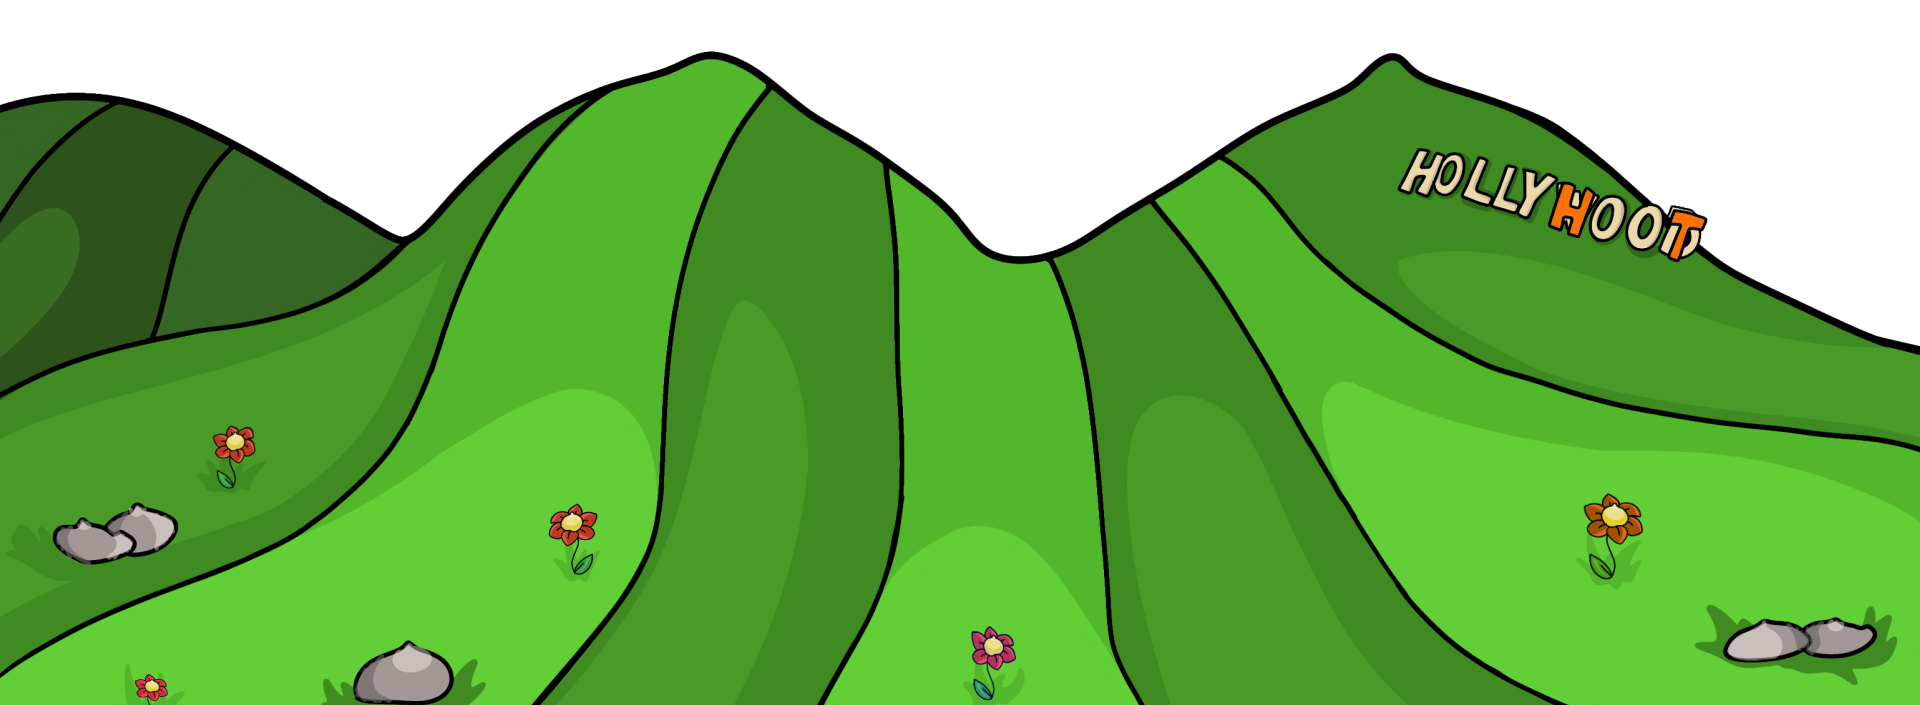
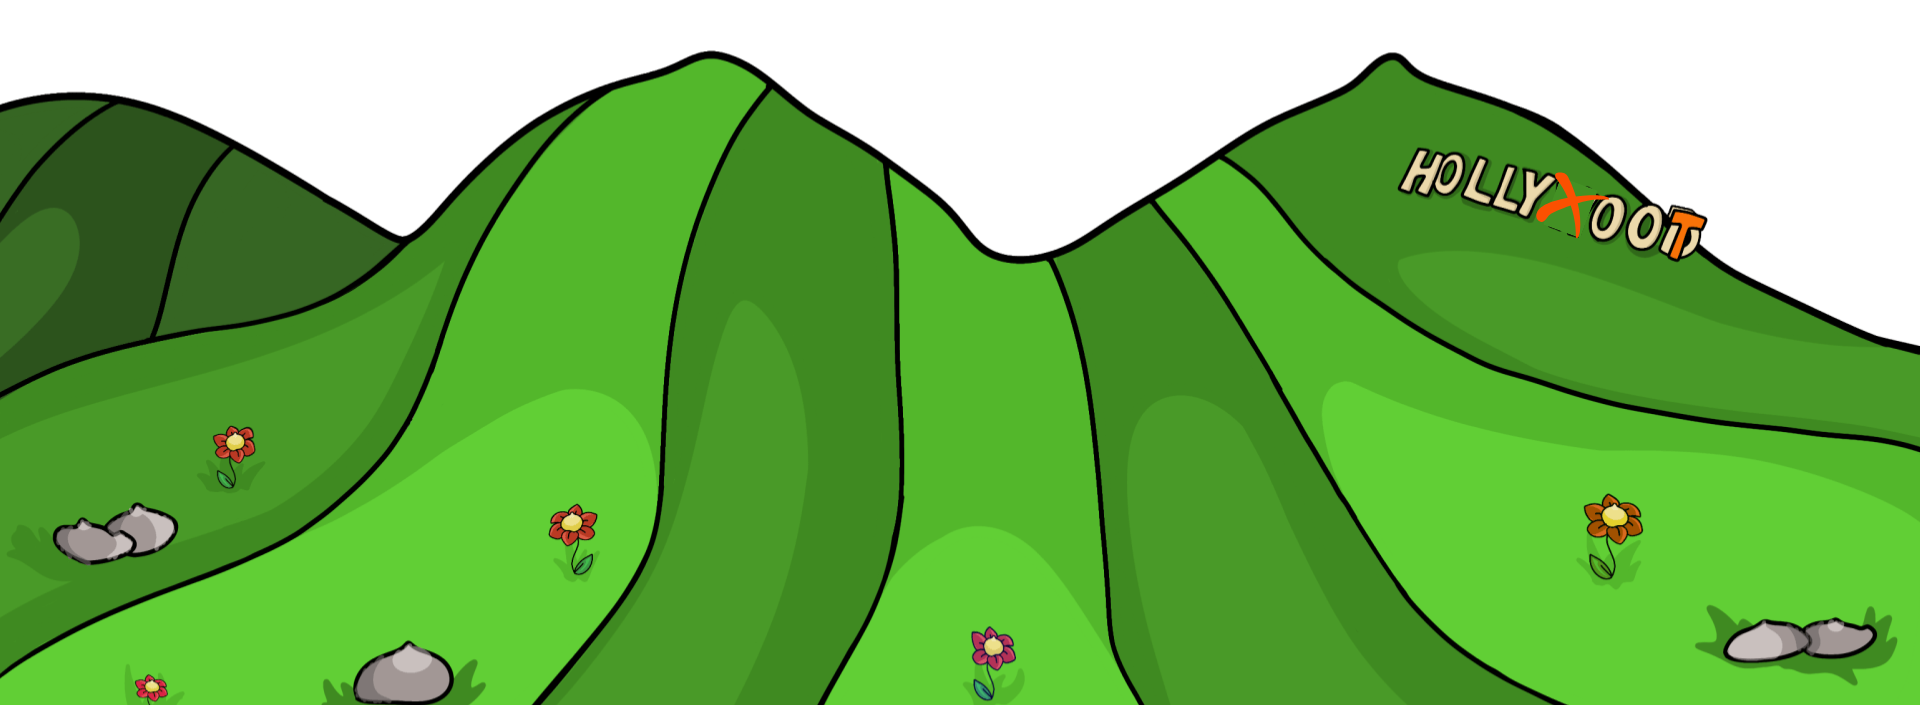
fix

diff --git a/index.html b/index.html
@@ -2,7 +2,7 @@
 <html lang="en">
 
 <head>
-	<title>HOOT</title>
+	<title>XOOT</title>
 	<meta charset="UTF-8">
 	<meta name="format-detection" content="telephone=no">
 	<style>
@@ -24,9 +24,9 @@
 	<meta name="viewport" content="width=device-width, initial-scale=1.0">
 	<meta name="twitter:card" content="summary">
 
-	<meta name="twitter:title" content="Join the $HOOT club">
+	<meta name="twitter:title" content="Join the $XOOT club">
 	<meta name="twitter:description"
-		content="We’ve had cats and dogs it’s time for owls to shine. generally they move in silence but Hoot is about to make noise. He’s getting his energy from green candles and hooting at his crew to join, are you in?">
+		content="We’ve had cats and dogs it’s time for owls to shine. generally they move in silence but XOOT is about to make noise. He’s getting his energy from green candles and hooting at his crew to join, are you in?">
 	<meta name="twitter:image" content="https://pbs.twimg.com/profile_images/1831834463149408256/uzGyUpNk_400x400.jpg">
 
 	<meta name="robots" content="max-image-preview:large">
@@ -34,11 +34,11 @@
 	<meta property="og:locale" content="en_US">
 	<meta property="og:image" content="images/uzGyUpNk_400x400.jpg">
 	<meta property="og:type" content="site">
-	<meta property="og:site_name" content="HOOT">
-	<meta property="og:url" content="http://hootcute.com">
-	<meta property="og:title" content="Join the $HOOT club">
+	<meta property="og:site_name" content="XOOT">
+
+	<meta property="og:title" content="Join the $XOOT club">
 	<meta name="description"
-		content="We’ve had cats and dogs it’s time for owls to shine. generally they move in silence but Hoot is about to make noise. He’s getting his energy from green candles and hooting at his crew to join, are you in?">
+		content="We’ve had cats and dogs it’s time for owls to shine. generally they move in silence but XOOT is about to make noise. He’s getting his energy from green candles and hooting at his crew to join, are you in?">
 </head>
 
 <body>
@@ -46,7 +46,8 @@
 		<div class="menu-open-bg"></div>
 		<header class="header">
 			<div class="header__container">
-				<a href="../" class="header__logo"><img src="images/logo.png" alt="Logo"></a>
+				<a href="../" class="header__logo"><img src="images/logo.png" style="width: 80px;border-radius: 50%;"
+						alt="Logo"></a>
 				<div class="header__menu menu">
 					<button type="button" class="menu__icon icon-menu"><span></span></button>
 					<nav class="menu__body">
@@ -64,10 +65,9 @@
 					</nav>
 				</div>
 				<div class="header__actions" data-da=".menu__body, 767.98">
-					<a href="https://movepump.com/token/0xf3cace1056d48a5819869e9b7052d8100ff21d2ec83c42317a01c25199a4326d::hoot::HOOT"
-						target="_blank" class="header__button">BUy NOW</a>
+					<a href="https://firstledger.net/tokens" target="_blank" class="header__button">BUy NOW</a>
 					<div class="header__social">
-						<a href="https://t.me/HootSui_Portal" target="_blank " class="header__social-item">
+						<a href="https://t.me/XOOPXRPL_Portal" target="_blank " class="header__social-item">
 							<svg xmlns="http://www.w3.org/2000/svg" width="25" height="21" viewBox="0 0 25 21"
 								fill="none">
 								<path fill-rule="evenodd" clip-rule="evenodd"
@@ -75,7 +75,7 @@
 									fill="white" />
 							</svg>
 						</a>
-						<a href="https://x.com/HOOT_Sui" target="_blank " class="header__social-item">
+						<a href="https://x.com/XOOP_XRPL" target="_blank " class="header__social-item">
 							<svg xmlns="http://www.w3.org/2000/svg" width="25" height="23" viewBox="0 0 25 23"
 								fill="none">
 								<path
@@ -107,13 +107,12 @@
 						<div class="hero__bottom-body">
 							<div class="hero__bottom-text">
 								<span>JOIN THE</span>
-								<span>$HOOT CLUB </span>
+								<span>$XOOT CLUB </span>
 							</div>
 							<div class="hero__bottom-actions">
-								<a href="https://movepump.com/token/0xf3cace1056d48a5819869e9b7052d8100ff21d2ec83c42317a01c25199a4326d::hoot::HOOT"
-									class="hero__bottom-button">BUy NOW</a>
+								<a href="https://firstledger.net/tokens" class="hero__bottom-button">BUy NOW</a>
 								<div class="hero__bottom-social">
-									<a href="https://t.me/HootSui_Portal" target="_blank"
+									<a href="https://t.me/XOOPXRPL_Portal" target="_blank"
 										class="hero__bottom-social-item">
 										<svg xmlns="http://www.w3.org/2000/svg" width="38" height="32"
 											viewBox="0 0 38 32" fill="none">
@@ -122,7 +121,7 @@
 												fill="white" />
 										</svg>
 									</a>
-									<a href="https://x.com/HOOT_Sui" target="_blank" class="hero__bottom-social-item">
+									<a href="https://x.com/XOOP_XRPL" target="_blank" class="hero__bottom-social-item">
 										<svg xmlns="http://www.w3.org/2000/svg" width="36" height="32"
 											viewBox="0 0 36 32" fill="none">
 											<path
@@ -145,16 +144,16 @@
 						</div>
 						<div class="about__content">
 							<h2 class="about__title" data-watch-threshold="0.9" data-watch-once data-watch>
-								<img src="images/AboOutTitle.png" alt="ABOUT HOOT">
+								<img src="images/AboOutTitle.png" alt="ABOUT XOOT">
 							</h2>
 							<div class="about__text" data-watch-threshold="0.75" data-watch-once data-watch>
 								we’ve had cats and dogs it’s time for owls to shine. generally
-								they move in silence but Hoot is about to make noise. He’s
+								they move in silence but XOOT is about to make noise. He’s
 								getting his energy from green candles and hooting at his crew
 								to join, are you in?
 							</div>
 							<a href="#" target="_blank" class="about__button">
-								<span><span>Hoot</span> meme assets</span>
+								<span><span>XOOT</span> meme assets</span>
 								<svg xmlns="http://www.w3.org/2000/svg" width="24" height="40" viewBox="0 0 24 40"
 									fill="none">
 									<path
@@ -181,12 +180,9 @@
 										<span>Create a Wallet</span>
 									</div>
 									<div class="how__item-text">
-										Download Sui Wallet or your wallet of choice from the
-										app store or google play store for free. Desktop users,
-										download the google chrome extension by going to
-										<a target="_blank"
-											href="https://chromewebstore.google.com/detail/sui-wallet/opcgpfmipidbgpenhmajoajpbobppdil">Sui
-											Wallet</a>
+										Go to
+										<a target="_blank" href="https://firstledger.net/">First Ledger
+										</a> and create wallet
 									</div>
 								</div>
 							</div>
@@ -196,11 +192,10 @@
 								</div>
 								<div class="how__item-body">
 									<div class="how__item-title">
-										<span>Get some SUI</span>
+										<span>Get some XRP</span>
 									</div>
 									<div class="how__item-text">
-										Have SUI in your wallet to switch to $HOOT If you don't
-										have any SUI, you can buy SUI within Sui Wallet Wallet.
+										Have XRP in your wallet to switch to $XOOT.
 									</div>
 								</div>
 							</div>
@@ -210,13 +205,10 @@
 								</div>
 								<div class="how__item-body">
 									<div class="how__item-title">
-										<span>Go to MovePump</span>
+										<span>Go to First Ledger</span>
 									</div>
 									<div class="how__item-text">
-										Connect to MovePump. Go
-										<a target="_blank" href="https://movepump.com/">movepump.com</a>
-										in google chrome or on the browser inside your wallet app.
-										Connect your wallet. When Sui Wallet prompts you for
+										When First Ledger Wallet prompts you for
 										a wallet signature, sign.
 									</div>
 								</div>
@@ -230,7 +222,7 @@
 										<span>Buy</span>
 									</div>
 									<div class="how__item-text">
-										Switch SUI for $HOOT, buy and HODL
+										Switch XRP for $XOOT, buy and HODL
 									</div>
 								</div>
 							</div>
@@ -244,11 +236,10 @@
 							<img src="images/tokTitleMob.png" alt="Tokenomics">
 						</h2>
 						<div class="tokenomics__body" data-watch-threshold="0.5" data-watch data-watch-once>
-							<img src="images/tokBody.png" alt="Image">
+							<img src="images/logo.png" style="border-radius: 10px;" alt="Image">
 							<div class="tokenomics__ca">
 								<span>CA:</span>
-								<span
-									id="tokenValue">0xf3cace1056d48a5819869e9b7052d8100ff21d2ec83c42317a01c25199a4326d::hoot::HOOT</span>
+								<span id="tokenValue">TBA</span>
 								<button type="button" class="copy-ca-btn">
 									<svg xmlns="http://www.w3.org/2000/svg" width="25" height="25" viewBox="0 0 25 25"
 										fill="none">
@@ -276,10 +267,9 @@
 					<div class="join__hero" data-watch-threshold="0.5" data-watch>
 						<img src="images/joinHero.png" alt="Image">
 						<div class="join__top">
-							<a href="https://movepump.com/token/0xf3cace1056d48a5819869e9b7052d8100ff21d2ec83c42317a01c25199a4326d::hoot::HOOT"
-								target="_blank" class="join__button">BUy NOW</a>
+							<a href="https://firstledger.net/tokens" target="_blank" class="join__button">BUy NOW</a>
 							<div class="join__top-social">
-								<a href="https://t.me/HootSui_Portal" target="_blank" class="join__top-social-social">
+								<a href="https://t.me/XOOPXRPL_Portal" target="_blank" class="join__top-social-social">
 									<svg xmlns="http://www.w3.org/2000/svg" width="38" height="32" viewBox="0 0 38 32"
 										fill="none">
 										<path fill-rule="evenodd" clip-rule="evenodd"
@@ -287,7 +277,7 @@
 											fill="white" />
 									</svg>
 								</a>
-								<a href="https://x.com/HOOT_Sui" target="_blank" class="join__top-social-social">
+								<a href="https://x.com/XOOP_XRPL" target="_blank" class="join__top-social-social">
 									<svg xmlns="http://www.w3.org/2000/svg" width="36" height="32" viewBox="0 0 36 32"
 										fill="none">
 										<path
@@ -307,7 +297,7 @@
 										<a href="#" data-goto=".about" data-goto-top="40"
 											class="join__menu-item join__menu-item--1">About</a>
 										<div class="join__menu-social">
-											<a href="https://t.me/HootSui_Portal" target="_blank"
+											<a href="https://t.me/XOOPXRPL_Portal" target="_blank"
 												class="join__menu-social-social">
 												<svg xmlns="http://www.w3.org/2000/svg" width="38" height="32"
 													viewBox="0 0 38 32" fill="none">
@@ -316,7 +306,7 @@
 														fill="white" />
 												</svg>
 											</a>
-											<a href="https://x.com/HOOT_Sui" target="_blank"
+											<a href="https://x.com/XOOP_XRPL" target="_blank"
 												class="join__menu-social-social">
 												<svg xmlns="http://www.w3.org/2000/svg" width="36" height="32"
 													viewBox="0 0 36 32" fill="none">
@@ -337,7 +327,7 @@
 									</div>
 								</div>
 								<div class="join__image">
-									<img src="images/joinImage.png" alt="Image">
+									<img src="images/heroTitle.png" alt="Image">
 								</div>
 							</div>
 						</div>
